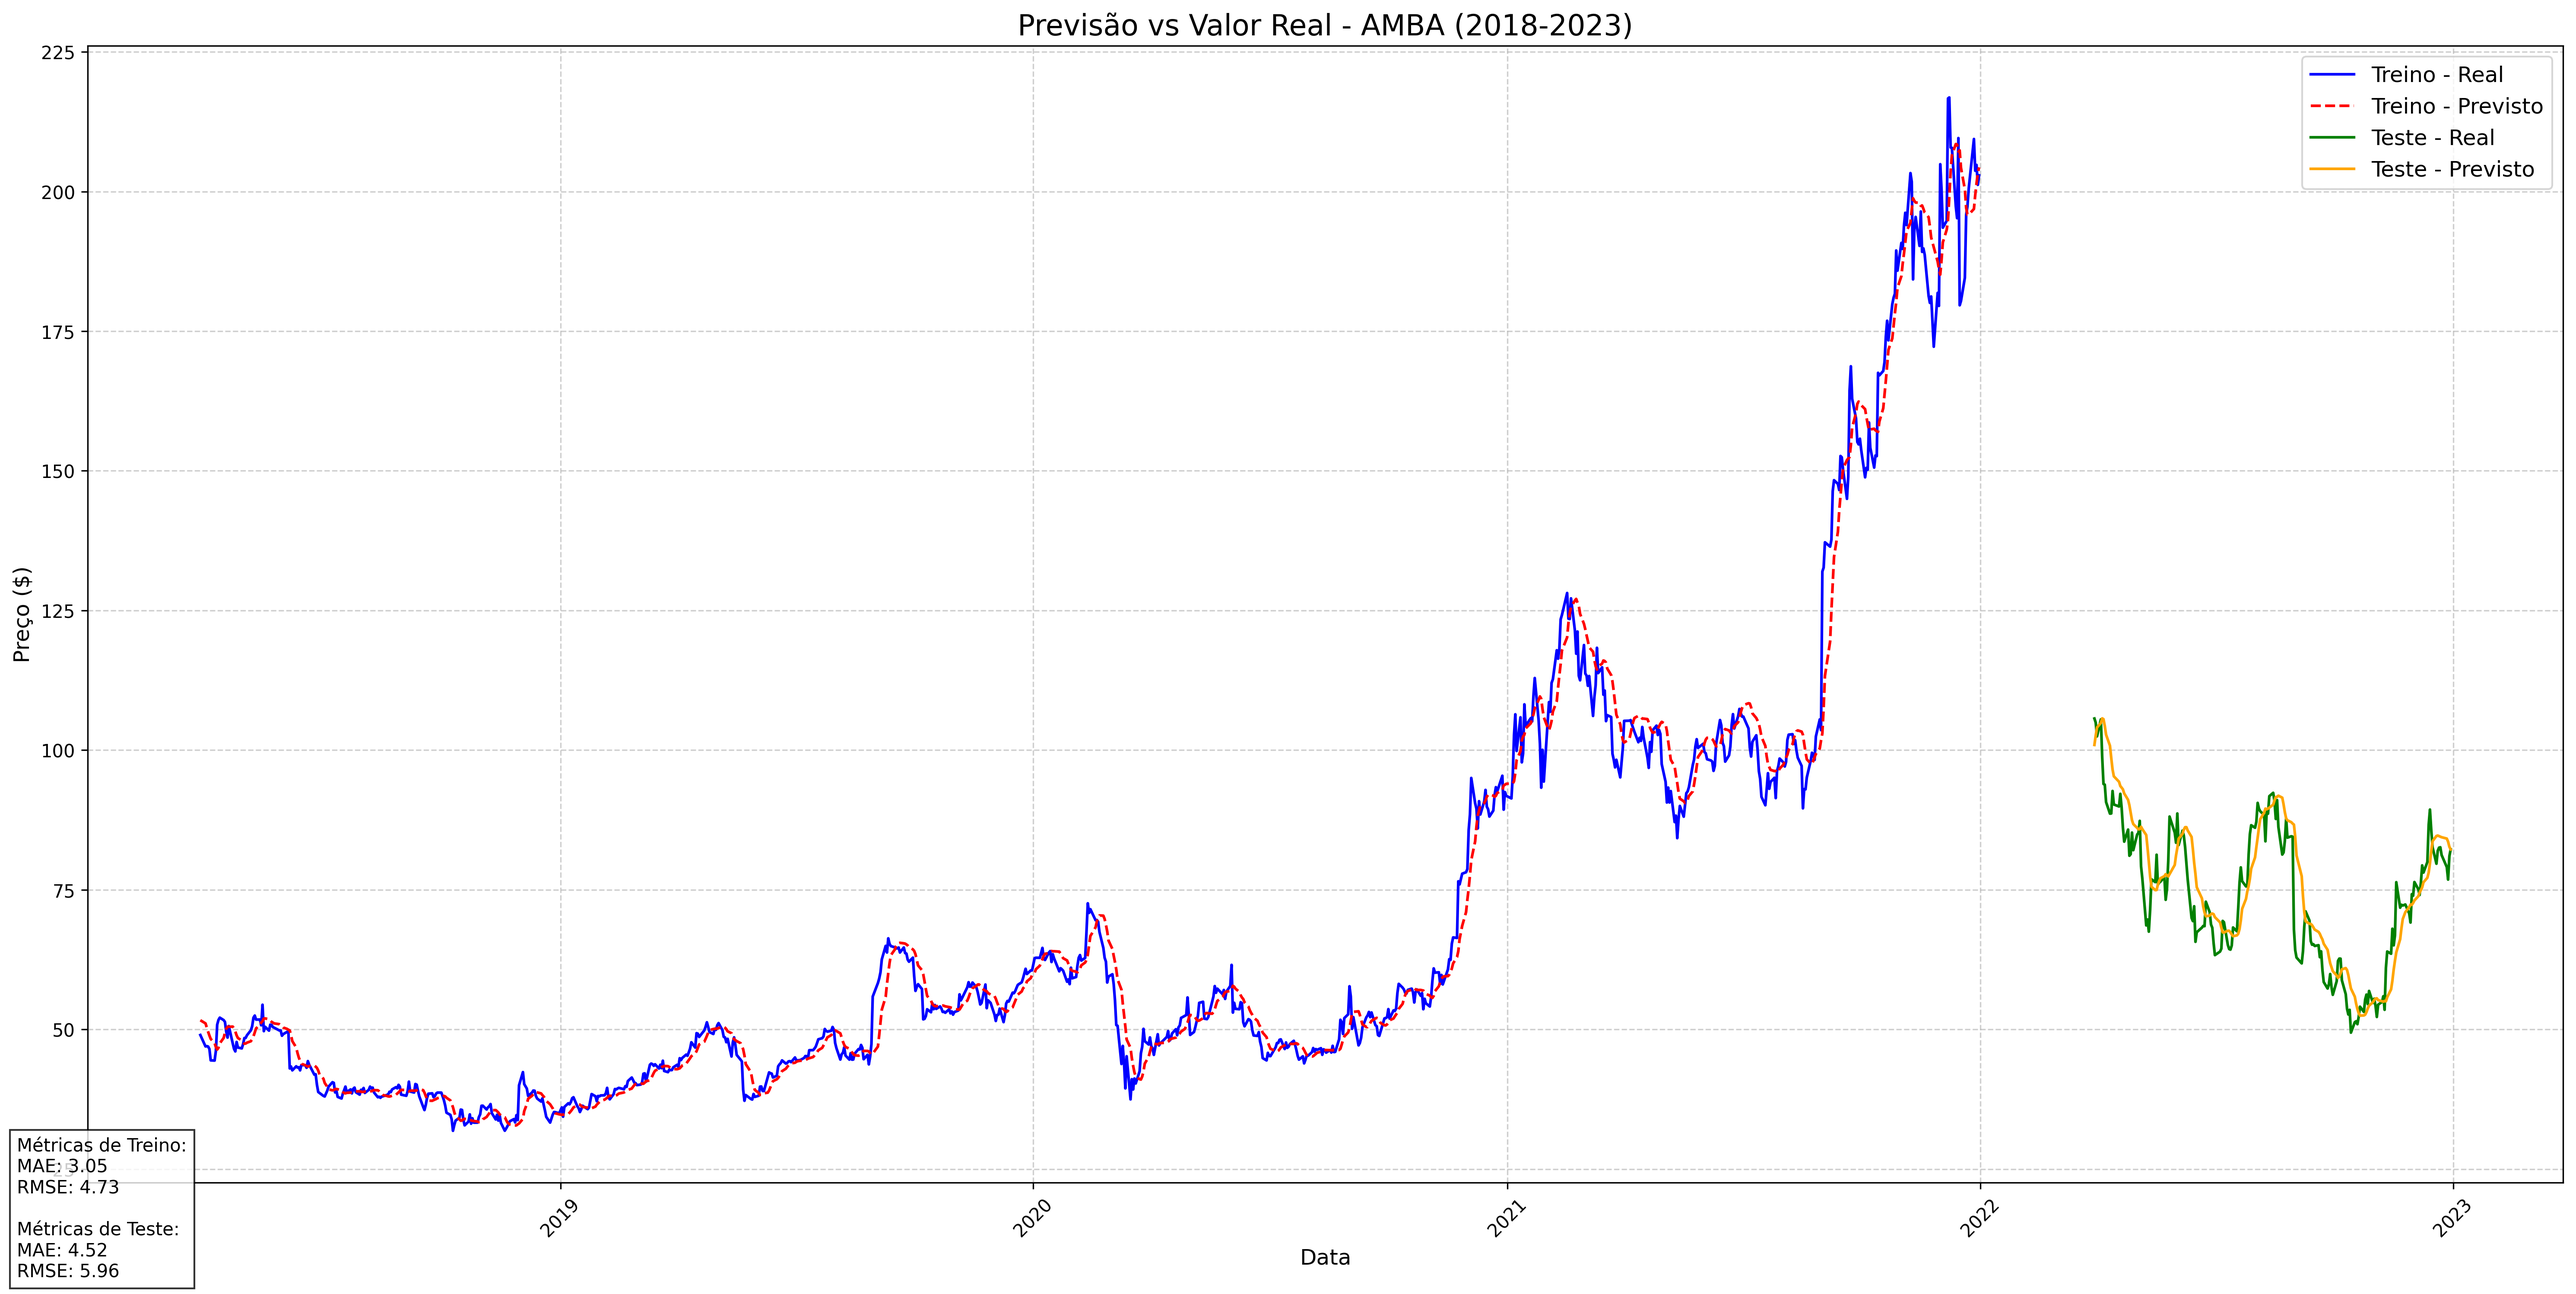
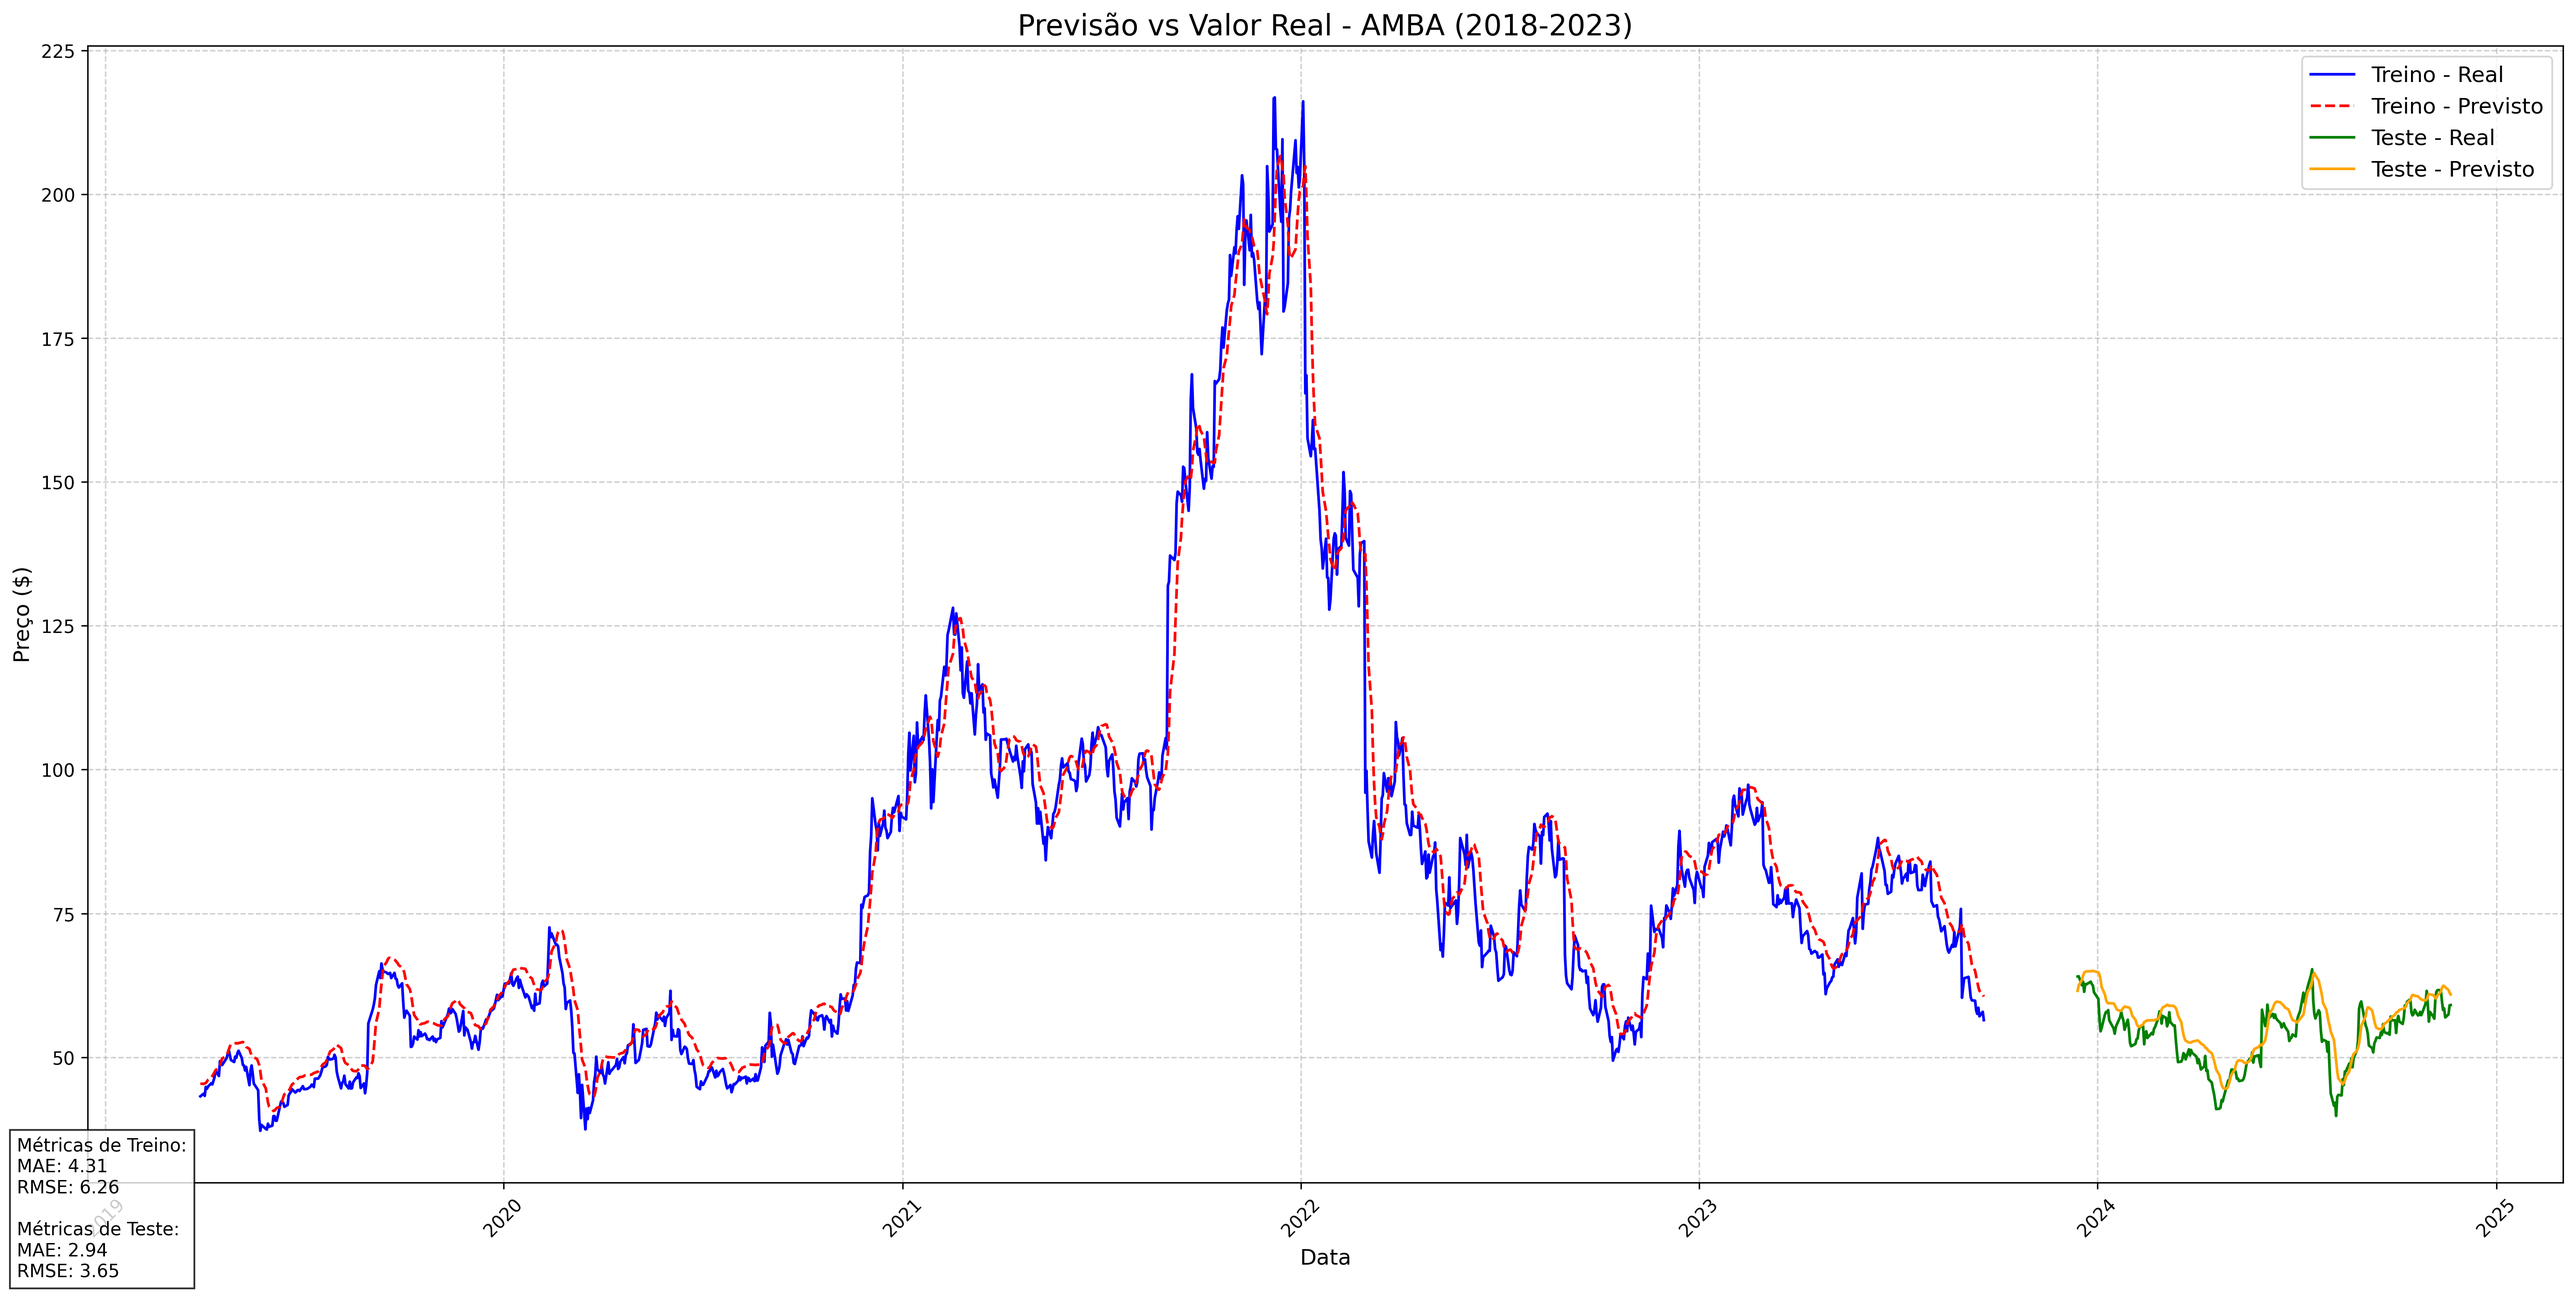
alt. periodo

diff --git a/lstm.py b/lstm.py
@@ -11,6 +11,7 @@ import yfinance as yf
 from sklearn.preprocessing import MinMaxScaler
 import matplotlib.pyplot as plt
 from sklearn.metrics import mean_absolute_error, mean_squared_error, r2_score
+from datetime import datetime
 
 # Configurar MLflow
 mlflow.set_tracking_uri('file:' + os.path.join(os.getcwd(), 'mlruns'))
@@ -38,7 +39,7 @@ with mlflow.start_run() as run:
     # Baixar dados
     ticker = 'AMBA'
     print(f"Baixando dados históricos para o ticker: {ticker}")
-    dados_historicos = yf.download(ticker, start='2018-01-01', end='2023-01-01')
+    dados_historicos = yf.download(ticker, start='2019-01-01', end= datetime.now().strftime('%Y-%m-%d'))
     
     # Processar dados
     data = dados_historicos['Close'].values.reshape(-1, 1)
@@ -101,7 +102,7 @@ with mlflow.start_run() as run:
     plt.plot(test_dates, y_test_inv.T, 'g', label='Teste - Real')
     plt.plot(test_dates, test_predict, 'orange', label='Teste - Previsto')
 
-    plt.title(f'Previsão vs Valor Real - {ticker} (2018-2023)', fontsize=16)
+    plt.title(f'Previsão vs Valor Real - {ticker} (2019-2024)', fontsize=16)
     plt.xlabel('Data', fontsize=12)
     plt.ylabel('Preço ($)', fontsize=12)
     plt.legend(fontsize=12)
